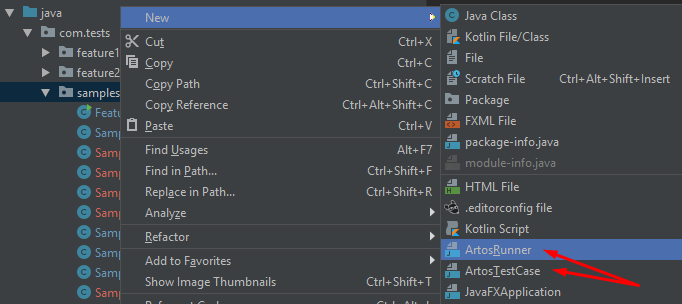
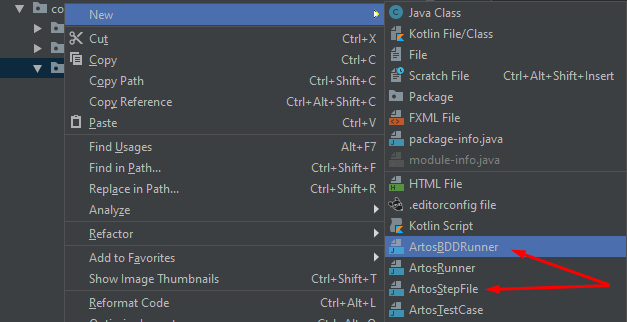
Updated BDD pic with latest template information

Changed region(s): [[0.0, 0.0, 1.0, 1.0], [0.2121, 0.6809, 0.2727, 0.7401], [0.2727, 0.977, 0.303, 1.0]]

diff --git a/docs/source/StepByStepBDD/implement-feature-file.rst b/docs/source/StepByStepBDD/implement-feature-file.rst
@@ -1,7 +1,7 @@
 Implement Feature File
 **********************
 
-Artos can execute test steps based on feature file.
+Feature file is used to describe test scenario(s) in human readable language using Gherkin syntax. Artos accepts feature file(s) as an input and  binds scenario steps to relevant method within the test project. 
 
 * Feature file is a text file with an extension ```.feature```. 
 * Script file should be placed inside ``script`` directory of the project.
@@ -31,7 +31,7 @@ Sample Feature File
 	    Examples: 
 	      | FunctionButtons | ExpectedAction			|
 	      | ON              | television is already ON 	|
-	      | MUTE 			| television audio is muted	|
+	      | MUTE            | television audio is muted	|
 	      | OFF             | NA 						|
 	      | ON            	| television is turned ON 	|
 
@@ -45,7 +45,7 @@ Sample Feature File
 	    Then User validates "<ExpectedAction>"
 
 	    Examples: 
-	      | FunctionButtons 	| ExpectedAction           | resolution |
+	      | FunctionButtons     | ExpectedAction           | resolution |
 	      | VolumeIncrease      | Is volume higher by one? | HD         |
 	      | VolumeDecrease      | Is volume lower by one?  | FULL_HD    |
 
@@ -57,7 +57,7 @@ Feature File Components
 Feature
 =======
 
-* Declared using ``Feature:`` followed by description of the the Feature
+* Declared using ``Feature:`` followed by description of the the feature
 * Only one ``Feature:`` can be available in one feature file
 
 .. code-block:: Text
@@ -72,7 +72,8 @@ Feature
 Scenario 
 ========
 
-* Scenario is declared using ``Scenario Outline:`` followed by description of the scenario
+* Scenario is declared using ``Scenario Outline:`` followed by description of the scenario.
+* One feature file can have one or more scenarios.
 * Scenario is defined using **Gherkin Syntax** which utilizes keywords "Given", "When", "And", "Then"
 * Scenario lines declared with Gherkin keywords are called **Steps**.
 * Scenario can be attached to one or more groups by adding group name above ``Scenario Outline:`` as shown in below example.
@@ -97,10 +98,10 @@ Scenario
 	  Then television displays "<ExpectedAction>"
 
 	Examples: 
-	    | FunctionButtons | ExpectedAction     		  |
+	    | FunctionButtons | ExpectedAction            |
 	    | ON              | television is already ON  |
-	    | MUTE			  | television audio is muted |
-	    | OFF             | NA				 		  |
+	    | MUTE            | television audio is muted |
+	    | OFF             | NA                        |
 	    | ON              | television is turned ON   |
 
 ..
@@ -109,7 +110,7 @@ Background
 ==========
 
 * Declared using ``Background:`` followed by description of the background scenario
-* Each feature file can have only one ``Background:`` scenario.
+* feature file can have only one ``Background:`` scenario.
 * Scenario declared under ``Background:`` is executed prior to each scenarios declared under ``Scenario Outline:``
 * ``Background:`` is declared as very first scenario in feature file.
 

diff --git a/docs/source/StepByStepBDD/implement-project-structure.rst b/docs/source/StepByStepBDD/implement-project-structure.rst
@@ -1,10 +1,11 @@
 Implement Project
 *****************
 
-ARTOS BDD test project consists of two components:
+ARTOS BDD test project consists of three components:
 
 * Test Runner
-* Test Class(es) that contains test steps
+* Class(s) containing test steps
+* Feature File(s)
 
 The project can be configured in many different ways as per the business requirement.
 
